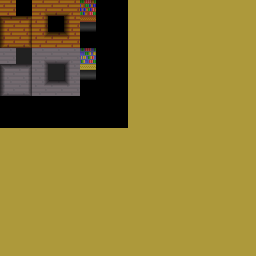
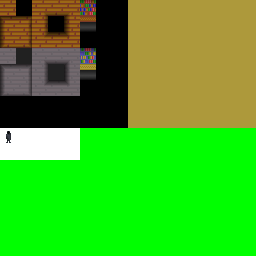
Add: Rendering monks.

diff --git a/js/sprites.js b/js/sprites.js
@@ -1,23 +1,82 @@
 var spList;
 var spCount, spElems=6, spMax=spElems*200;
+var spShader, spShaderUnMvp, spShaderUnKMul;
+var spVbo;
 
 function spGlobals() {
 	spList = new Float32Array((spMax + 2)*spElems);
 	spCount = 0;
+	/*
+	spList[spCount++] = 2.0;
+	spList[spCount++] = 2.0;
+	spList[spCount++] = 0.2;
+	spList[spCount++] = 0.4;
+	spList[spCount++] = 0;
+	spList[spCount++] = 8;*/
+
+	spVbo = gl.createBuffer(gl.ARRAY_BUFFER);
+	gl.bindBuffer(gl.ARRAY_BUFFER, spVbo);
+	gl.bufferData(gl.ARRAY_BUFFER, spList, gl.STREAM_DRAW);
+
+	spShader = loadShader(['sprite.vert'], ['sprite.frag'], function (prog) {
+		prog.bindAttribute(0, 'atLoc');
+		prog.bindAttribute(1, 'atSize');
+	});
+	spShader.use();
+	spShaderUnMvp = spShader.getUniform('unMvp');
+	spShaderUnKMul = spShader.getUniform('unKMul');
+	gl.uniform1i(spShader.getUniform('unTex0'), 0);
+	gl.uniform1f(spShader.getUniform('unInvUvMul'), tex0DimInv);
 }
 
-function spPush(x, y, z, texId, uvMul, size) {
+function spPush(x, y, z, texId, size) {
 	if (spCount >= spMax) return;
+
+	var u = texId % tex0Dim;
+	var v = Math.floor(texId / tex0Dim);
 
 	spList[spCount++] = x;
 	spList[spCount++] = y;
 	spList[spCount++] = z;
+	spList[spCount++] = size;
+	spList[spCount++] = u;
+	spList[spCount++] = v;
 
 	/*
+	spList[spCount++] = x;
+	spList[spCount++] = y;
+	spList[spCount++] = z;
+	spList[spCount++] = 1.0;
+
 	var u = (texId % tex0Dim) * tex0DimInv;
 	var v = Math.floor(texId / tex0Dim) * tex0DimInv;
 	spList[spCount++] = u;
 	spList[spCount++] = v;
 	spList*/
+}
+
+function spRender() {
+	spShader.use();
+	gl.uniformMatrix4fv(spShaderUnMvp, false, mvp);
+	gl.uniform1f(spShaderUnKMul, 550.0);
+
+	gl.bindBuffer(gl.ARRAY_BUFFER, spVbo);
+	gl.bufferSubData(gl.ARRAY_BUFFER, 0, spList.subarray(0, spCount));
+
+	gl.enableVertexAttribArray(0);
+	gl.enableVertexAttribArray(1);
+	gl.enableVertexAttribArray(2);
+
+	gl.vertexAttribPointer(0, 3, gl.FLOAT, false, 4*spElems, 0);
+	gl.vertexAttribPointer(1, 1, gl.FLOAT, false, 4*spElems, 12);
+	gl.vertexAttribPointer(2, 2, gl.FLOAT, false, 4*spElems, 16);
+
+	gl.drawArrays(gl.POINTS, 0, spCount / spElems);
+
+	gl.disableVertexAttribArray(0);
+	gl.disableVertexAttribArray(1);
+	gl.disableVertexAttribArray(2);
+
+	spCount = 0;
 }
 

diff --git a/js/main.js b/js/main.js
@@ -2,10 +2,6 @@ var gl;
 var screenW = 640, screenH = 640;
 var blockRender = false;
 var tex0;
-var tex0Tile = 16;
-var tex0TileInv = 1.0 / tex0Tile;
-var tex0Dim = 16;
-var tex0DimInv = 1.0 / tex0Dim;
 var mvp = null;
 
 var inputMouseX = 0;
@@ -25,6 +21,8 @@ function frame(ft) {
 
 	plFrame(ft);
 	mapsRender();
+	crRender();
+	spRender();
 }
 
 function downloaded() {
@@ -55,6 +53,7 @@ function main() {
 	gl = esInitGl('bookCanvas', { antialias: false });
 	gl.enable(gl.DEPTH_TEST);
 	gl.enable(gl.CULL_FACE);
+	//gl.enable(gl.VERTEX_PROGRAM_POINT_SIZE);
 
 	// HTML events
 	document.addEventListener('keydown', function(event) {

diff --git a/js/creeps.js b/js/creeps.js
@@ -5,7 +5,13 @@ function crReset() {
 }
 
 function crSpawnMunk(x, y) {
-	crList.push(new Creep(x, y, 0.2));
+	crList.push(new Creep(x, y, 0.4));
+}
+
+function crRender() {
+	for (var i=0; i<crList.length; i++) {
+		crList[i].render();
+	}
 }
 
 
@@ -16,5 +22,6 @@ function Creep(x, y, size) {
 }
 
 Creep.prototype.render = function() {
+	spPush(this.x, this.y, this.size*0.5, TEX_MUNK, this.size);
 }
 

diff --git a/gen/tex0.js b/gen/tex0.js
@@ -48,8 +48,8 @@
                  "type":"munk",
                  "visible":true,
                  "width":3.625,
-                 "x":158.625,
-                 "y":33.75
+                 "x":119.375,
+                 "y":25.75
                 }, 
                 {
                  "height":3.75,

diff --git a/js/texs.js b/js/texs.js
@@ -1,0 +1,11 @@
+var tex0Tile = 16;
+var tex0TileInv = 1.0 / tex0Tile;
+var tex0Dim = 16;
+var tex0DimInv = 1.0 / tex0Dim;
+
+function getTexId(x, y) {
+	return y*tex0Dim + x;
+}
+
+var TEX_MUNK = getTexId(0, 8);
+

diff --git a/js/player.js b/js/player.js
@@ -50,7 +50,7 @@ function plFrame(ft) {
 	}
 
 	// Update camera
-	esMat4_camera(mvp, 1.0, 1.0, 0.1, 40.0,
+	esMat4_camera(mvp, 1.0, 1.0, 0.01, 40.0,
 			esVec3_parse(
 				plX - plLookX,
 				plY - plLookY,

diff --git a/glsl/sprite.vert.c b/glsl/sprite.vert.c
@@ -1,0 +1,20 @@
+attribute vec3 atLoc;
+attribute float atSize;
+attribute vec2 atUv;
+
+varying vec2 vaUv;
+
+uniform mat4 unMvp;
+uniform float unKMul;
+
+void main() {
+	vaUv = atUv;
+	gl_Position = unMvp*vec4(atLoc, 1);
+	gl_PointSize = atSize * unKMul / gl_Position.w;
+
+	if (gl_Position.w < 0.6) {
+		gl_Position.z = -2.0;
+		gl_Position.w = -2.0;
+	}
+}
+

diff --git a/glsl/sprite.frag.c b/glsl/sprite.frag.c
@@ -1,0 +1,16 @@
+varying vec2 vaUv;
+
+uniform sampler2D unTex0;
+uniform float unInvUvMul;
+
+void main() {
+	//gl_FragColor = vec4(gl_PointCoord, 0, 1);
+	vec4 col = texture2D(unTex0, (vaUv + gl_PointCoord) * unInvUvMul);
+	if (col.a > 0.5) {
+		gl_FragColor = col;
+	} else {
+		//gl_FragColor = vec4(1, 0, 1, 1);
+		discard;
+	}
+}
+
